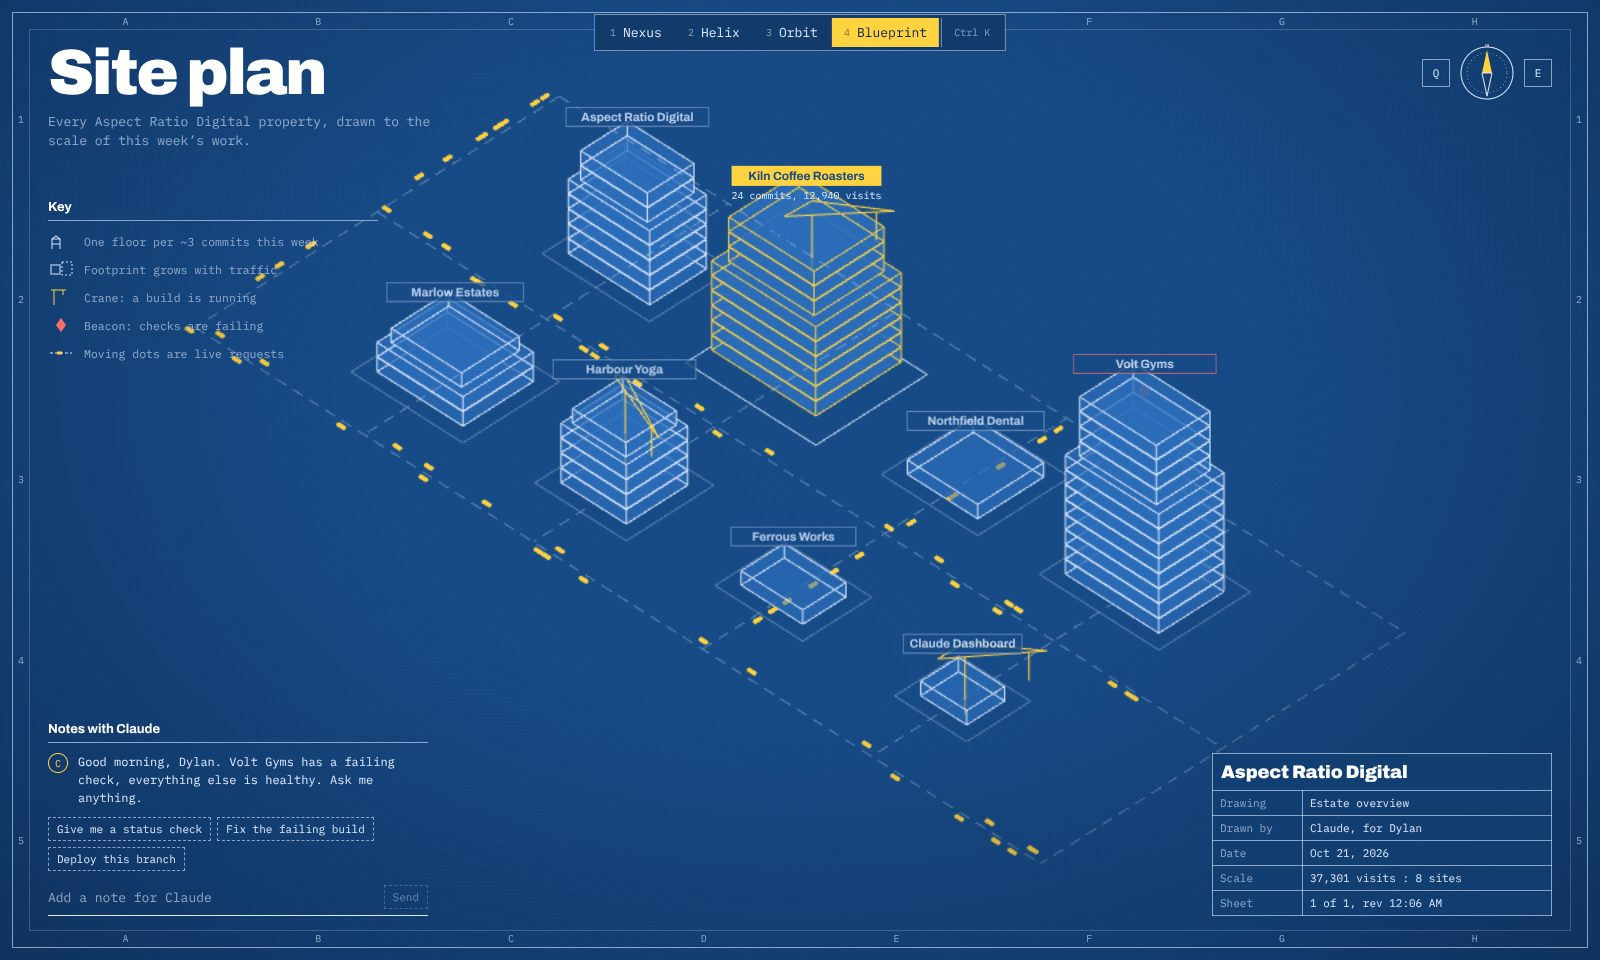
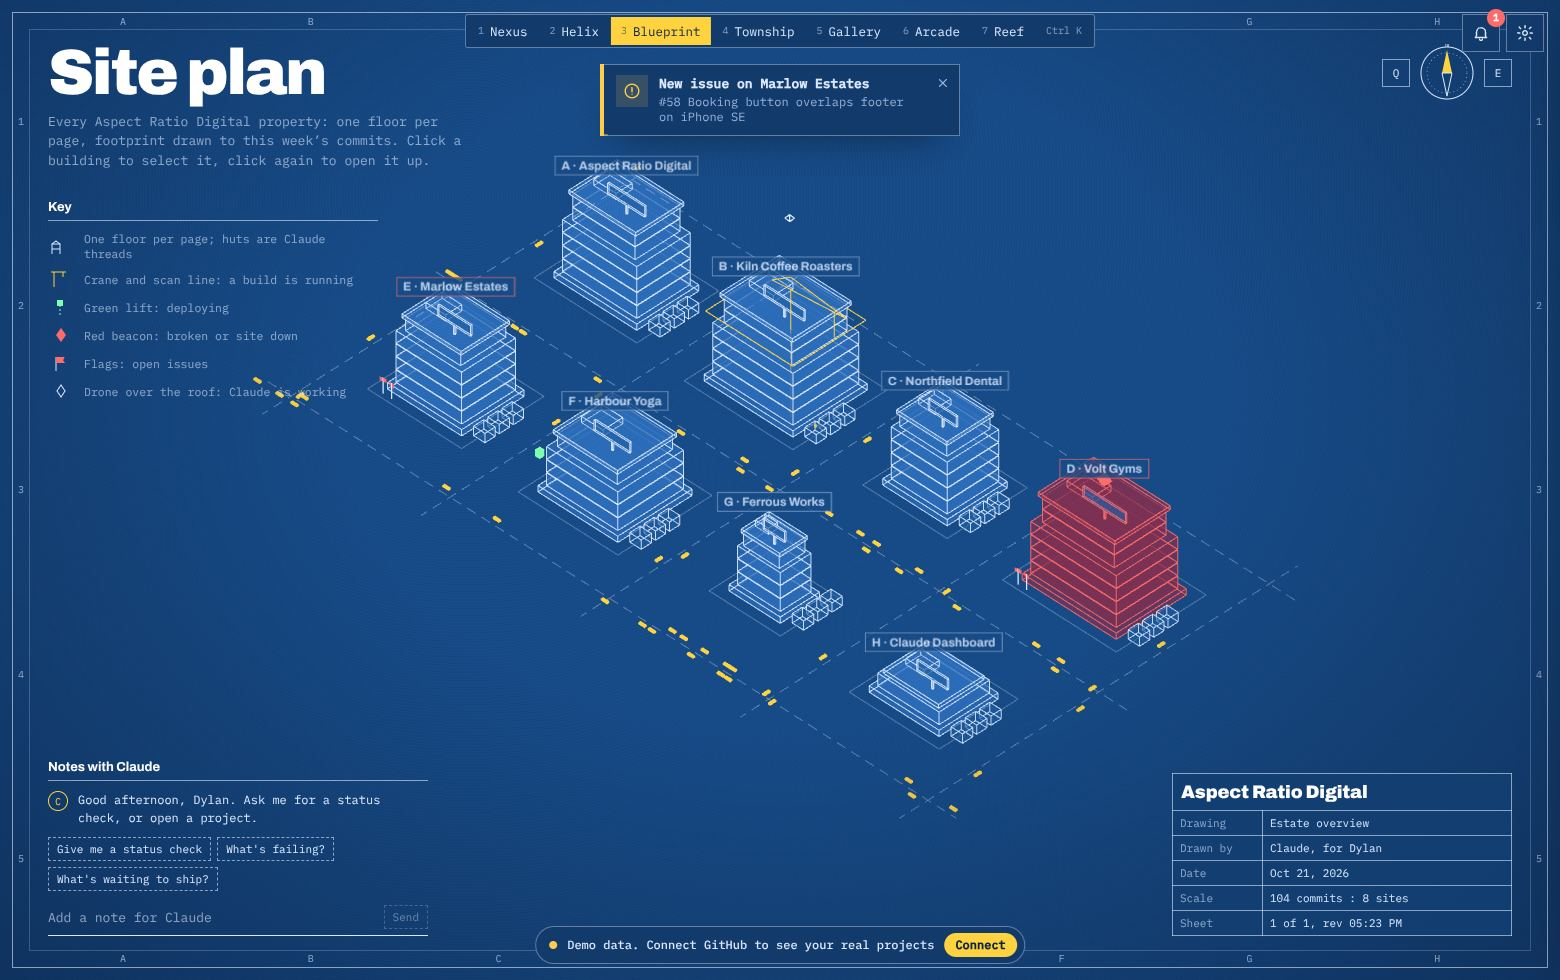
Rewrite README for the seven dashboards, refresh screenshots, polish Reef
README covers running on Windows, connecting GitHub, how Claude projects
are detected (claude.ai has no Projects API), every dashboard and its
notifications, previews, controls and the laptop quality tiers.
Reef: pink jellyfish with longer tentacles after a deploy, lighter seabed
on laptop tiers.

Claude-Session: https://claude.ai/code/session_019ppdGJQ73NA4Te6agcLErL

diff --git a/src/concepts/reef/Scene.tsx b/src/concepts/reef/Scene.tsx
@@ -384,7 +384,7 @@ function Colony({ site, impulses, kit, tier }: { site: Site; impulses: Impulses;
     () => ({
       polyp: new THREE.MeshBasicMaterial({ toneMapped: false }),
       bubble: new THREE.ShaderMaterial({ vertexShader: shellVert, fragmentShader: shellFrag, uniforms: { uColor: { value: new THREE.Color('#c8f6ff') }, uAlpha: { value: 1 }, uCore: { value: 0.05 } }, transparent: true, depthWrite: false, blending: THREE.AdditiveBlending }),
-      jelly: new THREE.ShaderMaterial({ vertexShader: shellVert, fragmentShader: shellFrag, uniforms: { uColor: { value: new THREE.Color('#7dffe8') }, uAlpha: { value: 1.4 }, uCore: { value: 0.15 } }, transparent: true, depthWrite: false, blending: THREE.AdditiveBlending, side: THREE.DoubleSide }),
+      jelly: new THREE.ShaderMaterial({ vertexShader: shellVert, fragmentShader: shellFrag, uniforms: { uColor: { value: new THREE.Color('#ff9ff0') }, uAlpha: { value: 1.3 }, uCore: { value: 0.12 } }, transparent: true, depthWrite: false, blending: THREE.AdditiveBlending, side: THREE.DoubleSide }),
       pearl: new THREE.MeshBasicMaterial({ color: new THREE.Color('#fff4fb').multiplyScalar(1.6), toneMapped: false }),
       ring: new THREE.ShaderMaterial({ vertexShader: quadVert, fragmentShader: ringFrag, uniforms: { uK: { value: 1 }, uColor: { value: new THREE.Color('#fff') } }, transparent: true, depthWrite: false, blending: THREE.AdditiveBlending, side: THREE.DoubleSide }),
       beam: new THREE.ShaderMaterial({ vertexShader: quadVert, fragmentShader: beamFrag, uniforms: { uColor: { value: new THREE.Color('#fff2c4') }, uAlpha: { value: 1 } }, transparent: true, depthWrite: false, blending: THREE.AdditiveBlending, side: THREE.DoubleSide }),
@@ -574,9 +574,9 @@ function Colony({ site, impulses, kit, tier }: { site: Site; impulses: Impulses;
         <mesh ref={bell} material={mats.jelly} raycast={noRay}>
           <sphereGeometry args={[0.32, 20, 10, 0, Math.PI * 2, 0, Math.PI / 2]} />
         </mesh>
-        {Array.from({ length: 6 }, (_, i) => (
-          <mesh key={i} material={mats.jelly} position={[Math.cos(i) * 0.16, -0.32, Math.sin(i) * 0.16]} raycast={noRay}>
-            <cylinderGeometry args={[0.012, 0.004, 0.62, 4, 1, true]} />
+        {Array.from({ length: 8 }, (_, i) => (
+          <mesh key={i} material={mats.jelly} position={[Math.cos((i / 8) * Math.PI * 2) * 0.2, -0.45, Math.sin((i / 8) * Math.PI * 2) * 0.2]} rotation={[Math.sin(i * 1.7) * 0.15, 0, Math.cos(i * 2.3) * 0.15]} raycast={noRay}>
+            <cylinderGeometry args={[0.016, 0.004, 0.9, 4, 1, true]} />
           </mesh>
         ))}
       </group>
@@ -802,7 +802,9 @@ function Environment({ radius, tier }: { radius: number; tier: Tier }) {
   const sky = useRef<THREE.Mesh>(null!)
   const time = useMemo(() => ({ value: 0 }), [])
   const floorGeo = useMemo(() => {
-    const g = new THREE.PlaneGeometry(140, 140, tier === 'battery' ? 90 : 160, tier === 'battery' ? 90 : 160)
+    // the dunes are gentle, so laptop tiers get away with a much coarser floor
+    const seg = tier === 'high' ? 160 : tier === 'balanced' ? 100 : 70
+    const g = new THREE.PlaneGeometry(140, 140, seg, seg)
     g.rotateX(-Math.PI / 2)
     const pos = g.attributes.position
     for (let i = 0; i < pos.count; i++) pos.setY(i, seabed(pos.getX(i), pos.getZ(i)))
@@ -811,7 +813,7 @@ function Environment({ radius, tier }: { radius: number; tier: Tier }) {
   }, [tier])
   const mats = useMemo(
     () => ({
-      floor: new THREE.ShaderMaterial({ vertexShader: floorVert, fragmentShader: floorFrag, uniforms: { uTime: time, uFog: { value: FOG }, uRich: { value: tier === 'battery' ? 0 : 1 } } }),
+      floor: new THREE.ShaderMaterial({ vertexShader: floorVert, fragmentShader: floorFrag, uniforms: { uTime: time, uFog: { value: FOG }, uRich: { value: tier === 'high' ? 1 : 0 } } }),
       sky: new THREE.ShaderMaterial({ vertexShader: skyVert, fragmentShader: skyFrag, uniforms: { uTime: time, uFog: { value: FOG } }, side: THREE.BackSide, depthWrite: false }),
       ray: new THREE.ShaderMaterial({ vertexShader: rayVert, fragmentShader: rayFrag, uniforms: { uTime: time, uCam: { value: new THREE.Vector3() } }, transparent: true, depthWrite: false, blending: THREE.AdditiveBlending, side: THREE.DoubleSide }),
       snow: new THREE.ShaderMaterial({ vertexShader: snowVert, fragmentShader: snowFrag, uniforms: { uTime: time, uScale: { value: 800 } }, transparent: true, depthWrite: false, blending: THREE.AdditiveBlending }),

diff --git a/src/concepts/reef/Reef.tsx b/src/concepts/reef/Reef.tsx
@@ -142,7 +142,7 @@ function Guide() {
             <i style={{ background: '#d8fff0' }} /> A school of fish spiralling up: it's deploying
           </li>
           <li>
-            <i style={{ background: '#7dffe8' }} /> A glowing jellyfish and a plankton bloom: it just shipped
+            <i style={{ background: '#ff9ff0' }} /> A pink jellyfish and a plankton bloom: it just shipped
           </li>
           <li>
             <i style={{ background: '#e8e4d8' }} /> Bleached white coral: a build or deploy failed

diff --git a/README.md b/README.md
@@ -1,98 +1,166 @@
 # Claude Dashboard
 
-A desktop command centre for Aspect Ratio Digital: every client site, repo and Claude session in one 3D app that runs on your own machine.
+A 3D command centre for Aspect Ratio Digital. Every site you're building with Claude, pulled live from GitHub, shown in seven dashboards you can flip between. Each one has notifications built into the scene: builds, deploys, failures, issues, pull requests and Claude at work. Click any project to see its desktop and mobile previews side by side, then click either one to open the site fullscreen.
 
-This first version is the **3D shell**. It ships four complete dashboard concepts you can flip between live, so you can pick a direction (or mix pieces) before we wire in real data. Everything you see is driven by placeholder data in [`src/data/mock.ts`](src/data/mock.ts).
+It runs on your own computer, in your browser or as a desktop window.
 
 ![Nexus](docs/screenshots/nexus.jpg)
 
 ## Run it
 
-You need [Node.js 20 or newer](https://nodejs.org) (22 LTS recommended). Works on Windows, macOS and Linux.
+You need [Node.js 20 or newer](https://nodejs.org) (22 LTS recommended) and Git.
+
+If you already have the folder (for example `D:\Claude-Dashboard`), open a terminal there and run:
+
+```powershell
+cd D:\Claude-Dashboard
+git fetch origin
+git checkout claude/project-thread-35jdu8
+git pull
+npm install
+npm run dev
+```
+
+Then open **http://localhost:5173**. Once this branch is merged you can use `git checkout main` and `git pull` instead.
+
+Starting from scratch:
 
 ```bash
 git clone https://github.com/aspectratiodigital/Claude-Dashboard.git
 cd Claude-Dashboard
 npm install
-
-npm run app        # desktop app (Electron) with hot reload
-# or
-npm run dev        # same thing in your browser at http://localhost:5173
+npm run dev
 ```
-
-Other scripts:
 
 | Command | What it does |
 | --- | --- |
-| `npm run app:prod` | Builds once, then opens the desktop app from the build (closest to the final experience) |
+| `npm run dev` | Dashboard in your browser at http://localhost:5173, with the local data service built in |
+| `npm run app` | The same thing in its own desktop window (Electron) |
+| `npm start` | Builds once and serves the build, closest to the finished experience |
 | `npm run build` | Type-checks and builds into `dist/` |
-| `npm run typecheck` | Type-check only |
 
-For the smoothest result run it on a machine with a dedicated or recent integrated GPU. Each scene watches its own frame rate and lowers render resolution if frames start to slip, then raises it again when there's headroom.
+## Connect your projects
+
+The first time it opens you'll see demo projects and a banner. Click **Connect** (or the gear icon) to open Settings.
+
+1. **GitHub.** Either click **Create a read-only GitHub token**, which opens GitHub with the right read-only permissions already ticked, and paste the token in; or, if you use the GitHub CLI, run `gh auth login` once and the dashboard picks it up by itself.
+2. **Projects.** Every repo under `aspectratiodigital` shows up. The live URL, preview URL and framework are found from each repo's website field and its deploys. You can override any of them, set a `localhost` port for your dev server, or hide a repo.
+3. **PageSpeed (optional).** Paste a free Google PageSpeed Insights key if you want Lighthouse scores. Without one, the dashboard still checks each live site every few minutes for free: whether it's up, how fast it answers, and its basic SEO tags.
+
+Your token and keys are saved in `.jarvis/settings.json` on your computer only. That folder is ignored by Git, and the token is only ever sent to GitHub. To limit which repos appear, list them in `include` (or `exclude`) in [`jarvis.config.json`](jarvis.config.json).
+
+### How it finds your Claude projects
+
+claude.ai doesn't offer an API for Projects yet, so the dashboard can't read your project list from claude.ai directly. Instead it treats each GitHub repo you work in as a project and spots Claude's work on it from:
+
+- branches Claude creates (`claude/...`)
+- pull requests that link back to a claude.ai session or project (that link becomes the project's **Claude project** button)
+- `Claude-Session:` and `Co-Authored-By: Claude` lines in commits
+- Claude Code sessions on this computer, from `~/.claude/projects`. Only the session title, folder, branch and times are read, never the conversation.
+
+So the projects on screen are the real sites you're working on with Claude, and each thread links back to where it lives.
+
+## The seven dashboards
+
+Press `1` to `7` to switch. Your choice is remembered.
+
+### 1. Nexus
+
+A liquid Claude core with your projects orbiting as glowing droplets, joined to it by ribbons of light. Rebuilt so it no longer flickers or flashes: everything is soft-edged and eased. Amber sparks circle a project while it builds, a violet stream rises while it deploys, small satellites orbit for open issues, a broken project glows red with a slow heartbeat, and pulses of light run out along the ribbon while Claude works on it. Any event sends a soft shockwave from the droplet. Click one to open its previews and threads.
+
+![Nexus with a project open](docs/screenshots/nexus-project.jpg)
+
+### 2. Helix
+
+Glass cards on a spiral you scroll, drag or arrow through. Each card is drawn from the live project: a striped progress bar while it builds or deploys, a red glow when broken, three bouncing dots when Claude is working. Open one for its previews, threads, activity, health and issues.
+
+![Helix](docs/screenshots/helix.jpg)
+
+### 3. Blueprint
+
+Your sites as an isometric city on a drafting sheet. One floor per page, footprint from this week's commits. Cranes and a scan line while it builds, a green lift while it deploys, a drone when Claude's on it, a red beacon when broken, flags for issues.
+
+Click a building to select it. Click it again (or press `Enter`) to **open it up**: it separates into a cross-section you can click through, with the roof for site speed, the sign for SEO, a floor for each page, the foundation for build quality, and huts for Claude's threads.
+
+![Blueprint](docs/screenshots/blueprint.jpg)
+![A building opened up](docs/screenshots/blueprint-dissect.jpg)
+
+### 4. Township
+
+A little town where every project is a house and peg people walk the paths between them. Scaffolding and hard hats while it builds, a delivery van while it deploys, chimney smoke when it's broken, a barrier when the site is down, a queue of unhappy visitors for issues, the mailbox flag up for pull requests, and Claude in orange with a cap when Claude's working there. When something ships, confetti goes up and the townsfolk jump.
+
+![Township](docs/screenshots/township.jpg)
+
+### 5. Gallery
+
+A quiet museum where each project is a painting generated from its own commits, pages and pull requests. The spotlight turns amber and sweeps while it builds, a drape covers it while it deploys and lifts when the deploy lands, a velvet rope goes up when it's broken, notes get pinned beside it for issues, and Claude stands at an easel when working on it.
+
+![Gallery](docs/screenshots/gallery.jpg)
+
+### 6. Arcade
+
+A neon arcade where every site is a cabinet. The screen plays the project's state: attract mode with a skyline of the last 14 days, NOW LOADING, LEVEL UP while it deploys (with a green beam), GAME OVER when it fails (a slow pulse, never a flash), an OUT OF ORDER sign when the site is down, NEW HIGH SCORE after a deploy. Space invaders hover over sites with issues, coins stack up for pull requests, Claude stands in as player 2, fireworks go up when something ships, and the marquee lights race when anything happens. The high-score table on the left doubles as your project list.
+
+![Arcade](docs/screenshots/arcade.jpg)
+
+### 7. Reef
+
+A sunlit seabed where every project grows its own coral: branching coral from its pages, brain coral from its commits, tube coral from the last 14 days. Bubbles rise while it builds, a school of fish spirals up while it deploys, the coral bleaches when it breaks and silts up when the site is down, crabs (and spiky urchins for bugs) gather for issues, clams hold pearls for pull requests, a pink jellyfish and a plankton bloom follow a deploy, and Claude's orange submarine circles while Claude works.
+
+![Reef](docs/screenshots/reef.jpg)
+
+## Previews
+
+Every dashboard opens a project the same way: a large desktop preview and a phone preview side by side, a page picker, and a switch between the live site and your `localhost` dev server. Click either preview to open it fullscreen at that size, then flip between desktop and mobile, change page, reload or pop it out to your browser.
+
+![Fullscreen mobile preview](docs/screenshots/stage.jpg)
+
+## Notifications
+
+Changes are spotted as the data refreshes (about once a minute) and appear in three places at once: a toast at the top, the bell's history drawer (press `N`), and an effect on that project in whichever dashboard you're in. The drawer has a **Preview a notification** panel so you can fire any kind on any project and see how each dashboard shows it.
+
+The kinds: build started, passed or failed; deploying, deployed or deploy failed; new issue; pull request opened, review requested or merged; push; Claude started working; site down or back up; site slower than usual.
 
 ## Controls
 
 | Key | Action |
 | --- | --- |
-| `1` `2` `3` `4` | Switch concept (Nexus, Helix, Orbit, Blueprint). Your choice is remembered |
-| `Ctrl K` / `Cmd K` | Command palette: jump to any site or concept |
-| `Esc` | Close the open site |
-| `F` | Show a live frame-rate meter |
+| `1` to `7` | Switch dashboard |
+| `Ctrl K` | Command palette: jump to any project or dashboard |
+| `N` | Notifications |
+| `Esc` | Close the fullscreen preview, then the open project |
+| `F` | Frame-rate meter |
+| `←` `→` | Move between projects in Helix, Gallery and Arcade |
+| `Enter` | Open the current project (Helix, Gallery); open up a building (Blueprint) |
+| `Q` `E` | Rotate the Blueprint plan |
+| Drag, scroll | Look around and zoom in Blueprint, Township, Arcade and Reef |
 
-Every concept shares the same building blocks: the site list, a desktop/mobile preview of each site (mock render, or flip it to the site's `localhost` port to iframe your real dev server), recent commits, and a Claude chat that streams context-aware mock replies.
+## Laptop friendly
 
-## The four concepts
+Settings has a **Quality** choice. **Auto** reads your graphics chip once: a dedicated GPU gets **High**, and integrated graphics (most laptops, including the MateBook) get **Balanced**. On battery it drops a level by itself.
 
-### 1. Nexus: holographic HUD
+- **High:** full resolution, glow and smoothing, shadows in Township, richer water in Reef.
+- **Balanced:** resolution capped, glow drawn at reduced size, no blur behind panels (the most expensive effect on integrated graphics), simpler materials.
+- **Battery saver:** no glow, lower resolution, the lightest version of every scene.
 
-The Jarvis-style one. A glowing Claude core sits at the centre with tick rings and arcs turning around it, and every site orbits as a hex node coloured by status (cyan live, amber building, red needs attention). The core pulses while Claude is talking. Hover a node or a row in the site list and a beam links it to the core; click it and the ring swings that site to the front while the right panel materialises its details and preview. Panels tilt toward your cursor, with scanlines, bloom and a slight chromatic fringe. Oxanium and Share Tech Mono.
-
-### 2. Helix: glass spiral
-
-Light and calm. Sites are glass slabs on a spiral that you scroll, drag or arrow through; the front card's name is set huge in Instrument Serif on the left and re-animates word by word as you move. Cards lean toward your cursor. Click the front card (or "Open workspace") and a frosted drawer slides in with Preview, Ask Claude and Activity tabs, while the helix glides aside.
-
-![Helix](docs/screenshots/helix.jpg)
-![Helix workspace](docs/screenshots/helix-workspace.jpg)
-
-### 3. Orbit: solar system
-
-Each site is a planet around a living sun (Claude, which flares when it speaks). The data is the layout: planet size is traffic, moons are branches, rings mean three or more open PRs, and a red dot marks failing checks. Drag to look around, scroll to zoom, click a planet to fly to it and follow it along its orbit. There's an orbit speed slider and pause. Syne and DM Sans.
-
-![Orbit](docs/screenshots/orbit.jpg)
-![Orbit planet view](docs/screenshots/orbit-planet.jpg)
-
-### 4. Blueprint: isometric site plan
-
-Your sites drawn as a city on a drafting sheet. Each building gets a floor for roughly every three commits this week and a footprint sized by traffic; cranes swing over sites that are building and a red beacon blinks on any with failing checks. Yellow dots running along the roads are live requests. Buildings construct themselves floor by floor on load, lift and highlight on hover, and clicking one opens a "Detail" callout. Drag to pan, scroll to zoom, `Q` / `E` to rotate the plan 90°. Sheet frame, grid references and a proper title block. Archivo and IBM Plex Mono.
-
-![Blueprint](docs/screenshots/blueprint.jpg)
-![Blueprint detail](docs/screenshots/blueprint-detail.jpg)
+On every level the scene pauses completely while a fullscreen preview is open, drops to 30 frames a second after 20 seconds without input (except Township, where people are walking), and steps resolution down if frames start slipping. Press `F` to see the frame rate.
 
 ## How it's built
 
-- **Electron** hosts the app ([`electron/main.cjs`](electron/main.cjs)). External links open in your normal browser.
-- **Vite + React 19 + TypeScript** for the UI, with each concept code-split and preloaded in the background so switching is instant.
-- **three.js via React Three Fiber** (plus drei and postprocessing) for the scenes. Custom GLSL for the Claude core, the sun, planets, stars, the helix backdrop and the drafting grid.
-- **Zustand** for shared state (selected site, hover, concept). Hovering in the 2D UI highlights the 3D object and vice versa.
-- 3D labels are plain DOM elements positioned from the scene each frame ([`src/shared/Labels.tsx`](src/shared/Labels.tsx)), which keeps them crisp and cheap.
-- Fonts are bundled locally, so the app works offline.
+- **Vite + React 19 + TypeScript**, each dashboard code-split and preloaded in the background so switching is instant.
+- **three.js through React Three Fiber**, with custom shaders for the Nexus core, the Arcade floor and sky, the Reef caustics and more. Labels are plain DOM positioned from the scene, which keeps them sharp and cheap.
+- **A small local service** runs inside the dev server ([`server/`](server)). It polls GitHub with ETag caching (so it barely touches your rate limit), reads local Claude Code sessions, checks your live sites, turns changes into notifications, and streams everything to the page.
+- **Electron** for the optional desktop window ([`electron/main.cjs`](electron/main.cjs)).
 
 ```
-electron/main.cjs        desktop window
-src/App.tsx              concept switcher, wipe transition, hotkeys
-src/data/mock.ts         placeholder sites, repos, commits, Claude sessions
-src/shared/              preview frame, mock Claude, palette, labels, small charts
-src/concepts/jarvis/     Nexus
+server/                  local data service: GitHub, Claude sessions, site checks, notifications
+src/data/                the data contract, live store, and the demo projects
+src/shared/              scene canvas and quality tiers, previews, notifications, project panel
+src/concepts/nexus/      Nexus
 src/concepts/helix/      Helix
-src/concepts/orbit/      Orbit
 src/concepts/blueprint/  Blueprint
+src/concepts/township/   Township
+src/concepts/gallery/    Gallery
+src/concepts/arcade/     Arcade
+src/concepts/reef/       Reef
 ```
-
-## What's mocked, and where the real thing plugs in
-
-| Today | Next step |
-| --- | --- |
-| Sites, traffic, uptime, Lighthouse in `mock.ts` | Pull from your hosting / analytics APIs |
-| Repos, branches, commits, PRs in `mock.ts` | GitHub API via a token stored in the Electron main process |
-| Claude replies from `src/shared/useClaude.ts` | Claude Agent SDK running in the main process, streamed to the UI over IPC (the hook already streams word by word, so the UI won't change) |
-| Mock site preview | Already supports a live `localhost:<port>` iframe; add device presets and a QR code for real phones |
